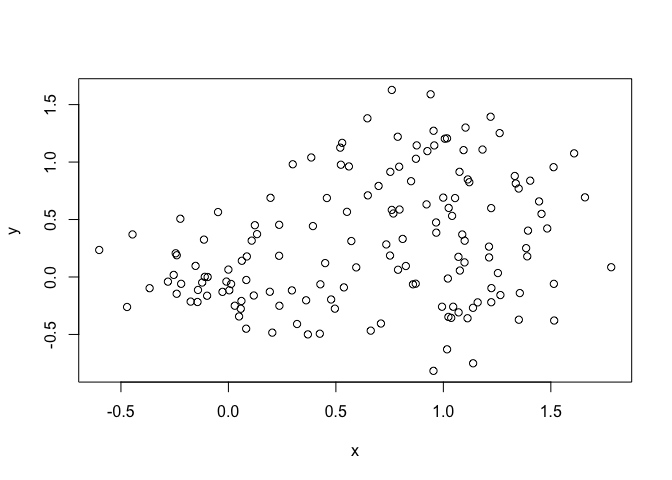
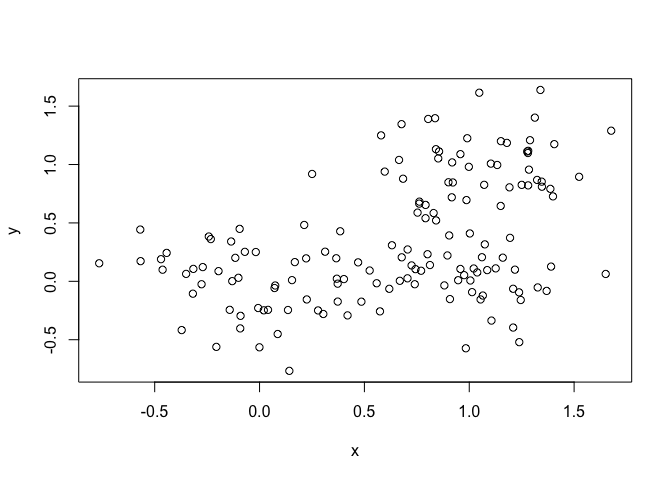
Class 08 github update, title change

diff --git a/Class08/Class08.md b/Class08/Class08.md
@@ -1,4 +1,4 @@
-Class 08\_PCA
+Class 08\_Principal Component Analysis(PCA)
 ================
 Danielle Garshott
 2/6/2019
@@ -36,16 +36,16 @@ km
     ## 
     ## Cluster means:
     ##           x         y
-    ## 1  2.940972 -3.086733
-    ## 2 -3.086733  2.940972
+    ## 1 -2.731096  2.858829
+    ## 2  2.858829 -2.731096
     ## 
     ## Clustering vector:
-    ##  [1] 2 2 2 2 2 2 2 2 2 2 2 2 2 2 2 2 2 2 2 2 2 2 2 2 2 2 2 2 2 2 1 1 1 1 1
-    ## [36] 1 1 1 1 1 1 1 1 1 1 1 1 1 1 1 1 1 1 1 1 1 1 1 1 1
+    ##  [1] 1 1 1 1 1 1 1 1 1 1 1 1 1 1 1 1 1 1 1 1 1 1 1 1 1 1 1 1 1 1 2 2 2 2 2
+    ## [36] 2 2 2 2 2 2 2 2 2 2 2 2 2 2 2 2 2 2 2 2 2 2 2 2 2
     ## 
     ## Within cluster sum of squares by cluster:
-    ## [1] 69.42077 69.42077
-    ##  (between_SS / total_SS =  88.7 %)
+    ## [1] 71.99792 71.99792
+    ##  (between_SS / total_SS =  86.7 %)
     ## 
     ## Available components:
     ## 
@@ -63,8 +63,8 @@ km$size
 km$cluster
 ```
 
-    ##  [1] 2 2 2 2 2 2 2 2 2 2 2 2 2 2 2 2 2 2 2 2 2 2 2 2 2 2 2 2 2 2 1 1 1 1 1
-    ## [36] 1 1 1 1 1 1 1 1 1 1 1 1 1 1 1 1 1 1 1 1 1 1 1 1 1
+    ##  [1] 1 1 1 1 1 1 1 1 1 1 1 1 1 1 1 1 1 1 1 1 1 1 1 1 1 1 1 1 1 1 2 2 2 2 2
+    ## [36] 2 2 2 2 2 2 2 2 2 2 2 2 2 2 2 2 2 2 2 2 2 2 2 2 2
 
 ``` r
 plot(x, col=km$cluster)
@@ -125,8 +125,8 @@ table(grp6)
 ```
 
     ## grp6
-    ##  1  2  3  4  5  6  7  8  9 10 
-    ##  6  9  7  7  1  7  7  9  6  1
+    ##  1  2  3  4  5  6  7  8 
+    ##  5 15  7  3  7 15  5  3
 
 We can also use k= groups as an argument to cutree! Instead of h= height
 ========================================================================
